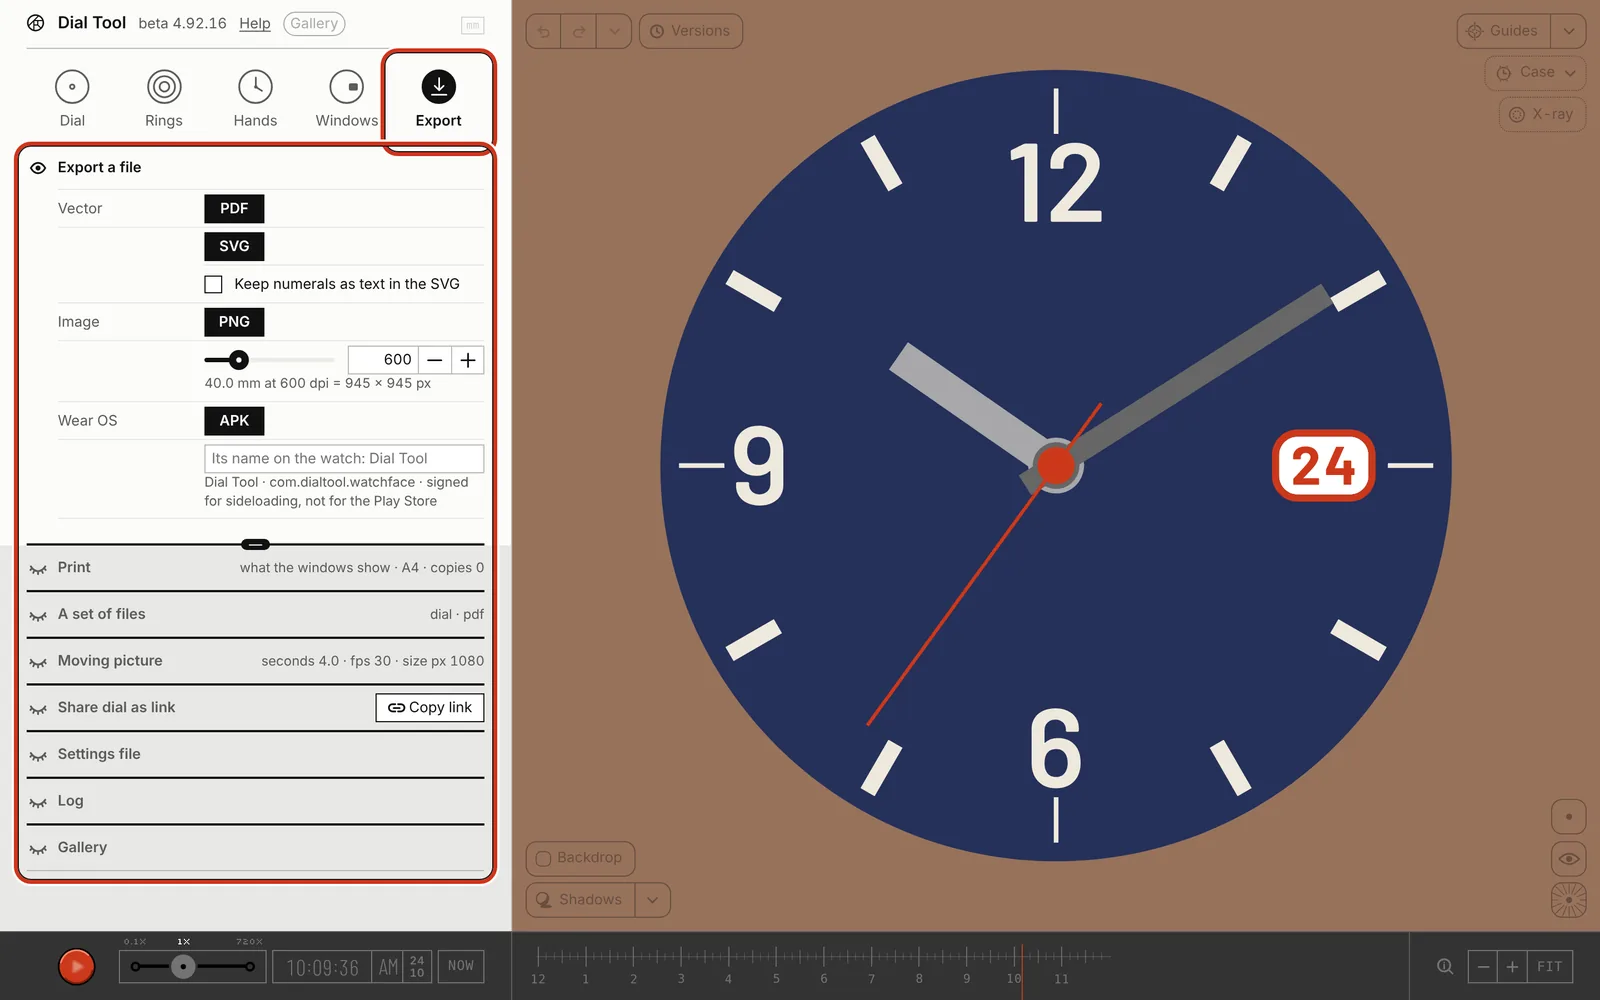
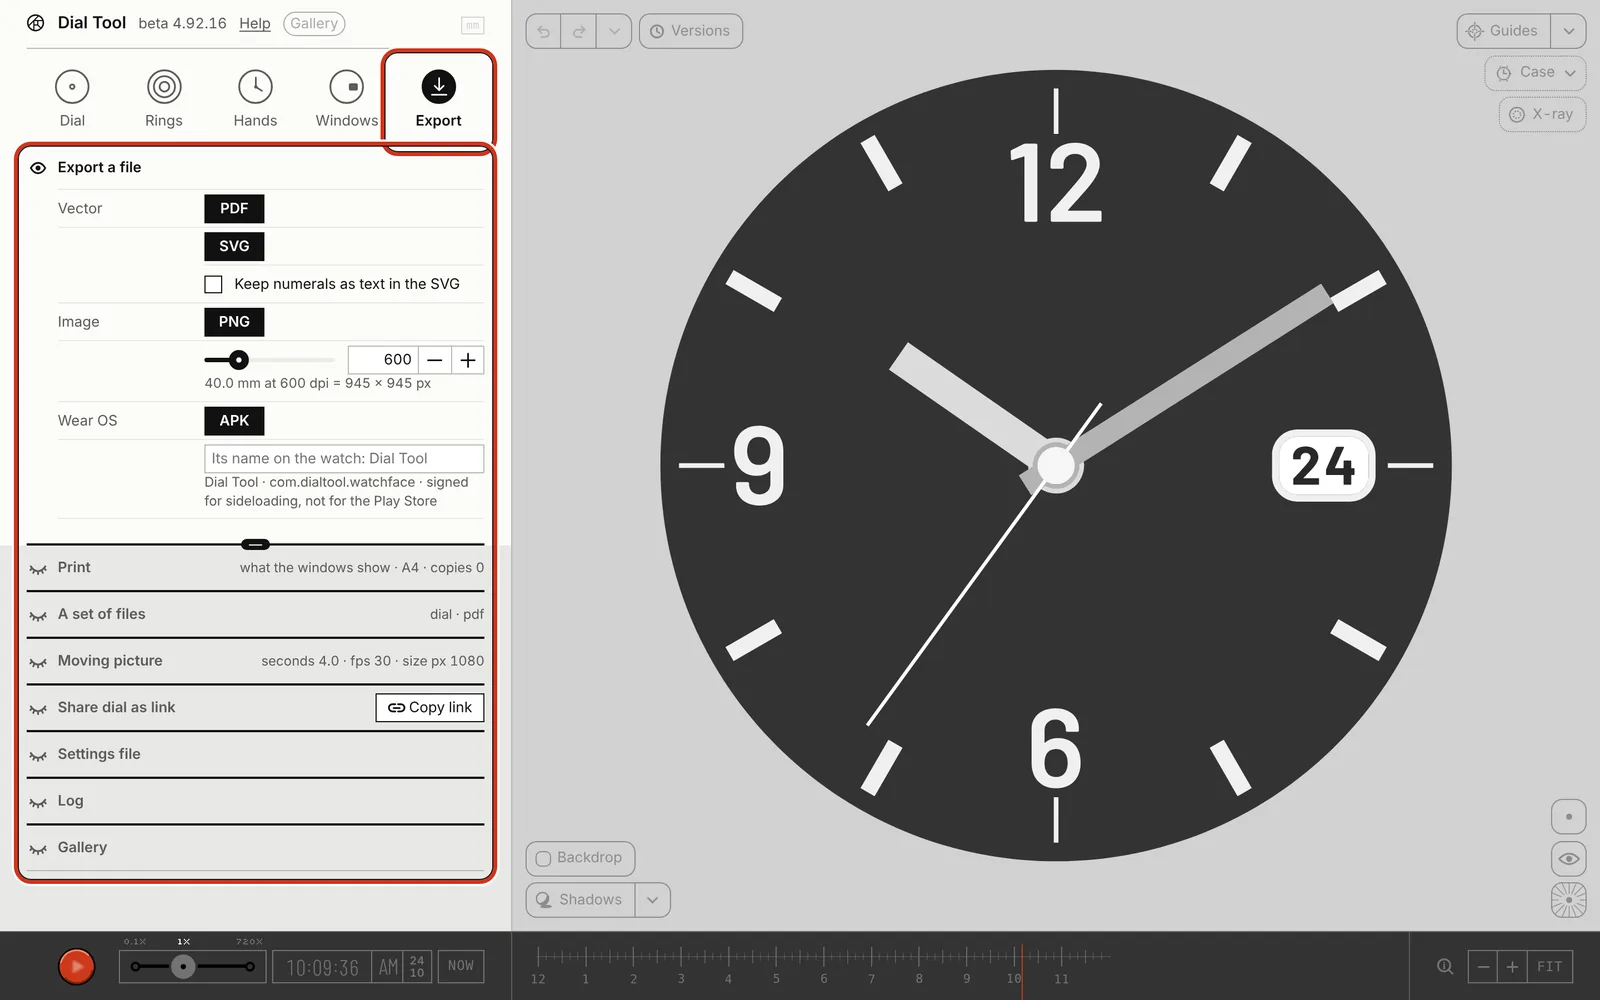
Help page: the dial in greys in every picture and small map (grey.cjs)
Claude-Session: https://claude.ai/code/session_01DwX9rUtyQzJBRx6p5MSduf

diff --git a/guide/help/index.html b/guide/help/index.html
@@ -78,8 +78,8 @@ h3.sg{margin:22px 0 4px}
 h2:has(.map)::after{right:calc(var(--map-ring) + var(--map-frame) * 2 + var(--map-w))}
 .map::before{content:"";position:absolute;inset:calc(var(--map-ring) * -1);background:var(--line);border-radius:2px;z-index:0}
 .map svg{position:relative;z-index:2;width:var(--map-w);height:var(--map-h);border:var(--map-frame) solid var(--ink);box-sizing:content-box}
-.map .backdrop{fill:#9a7458}.map .panel{fill:#f7f6f3}.map .pane{fill:#ecebe7}.map .tab{fill:none;stroke:#1b1a18;stroke-width:.8}.map .bar{fill:#2e2d2b}
-.map .dial{fill:#25305a}.map .ticks{stroke:#efe9dc;stroke-width:1.6}.map .hands{stroke:#b8b8b8;stroke-width:2.6;stroke-linecap:round}.map .cap{fill:#d9d9d9}
+.map .backdrop{fill:#d1d1d1}.map .panel{fill:#f7f6f3}.map .pane{fill:#ecebe7}.map .tab{fill:none;stroke:#1b1a18;stroke-width:.8}.map .bar{fill:#2e2d2b}
+.map .dial{fill:#333}.map .ticks{stroke:#f0f0f0;stroke-width:1.6}.map .hands{stroke:#dbdbdb;stroke-width:2.6;stroke-linecap:round}.map .cap{fill:#f5f5f5}
 .map .b1{fill:none;stroke:#111;stroke-width:1.3;vector-effect:non-scaling-stroke}.map .b2{fill:none;stroke:#d0341c;stroke-width:1.3;vector-effect:non-scaling-stroke}.map .b3{fill:none;stroke:#fff;stroke-width:1.3;vector-effect:non-scaling-stroke}
 .map{cursor:zoom-in}.map .soft{fill:#000;opacity:.06}
 .map .frame{display:none}
